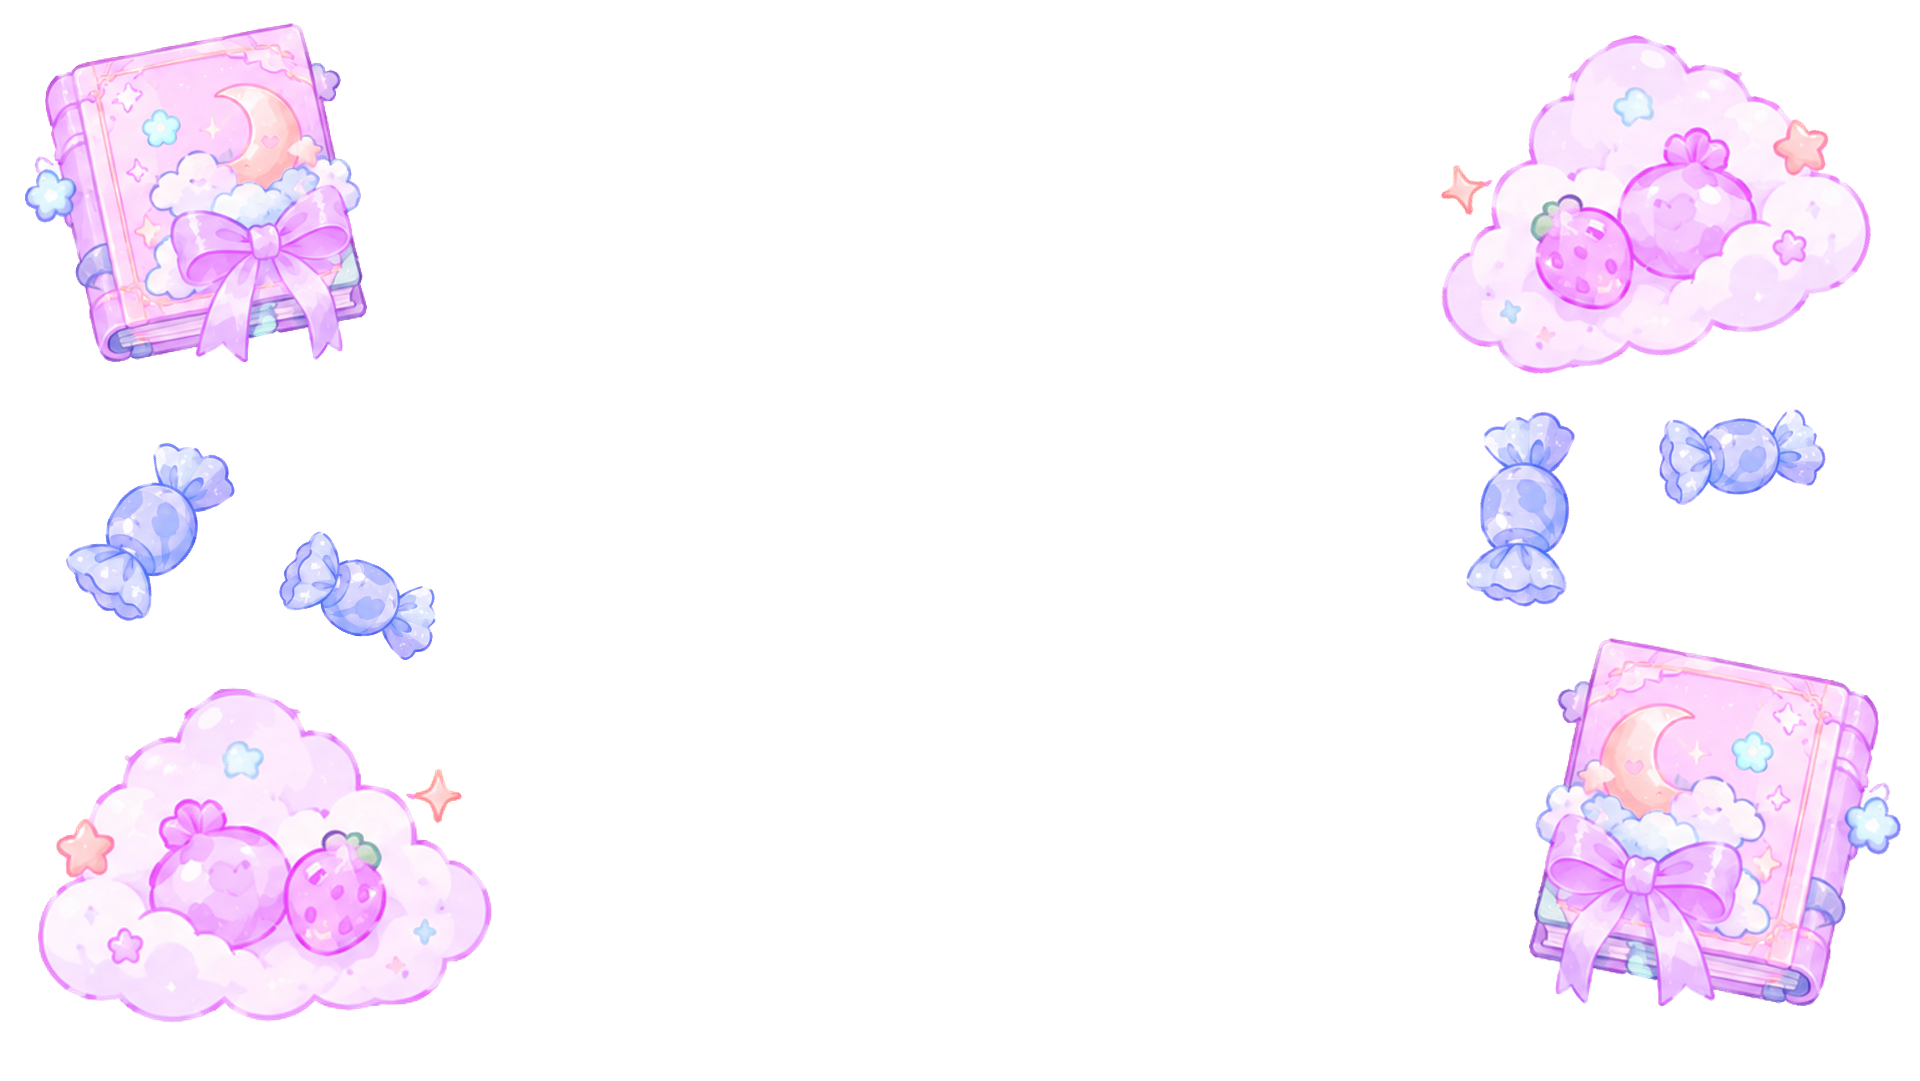
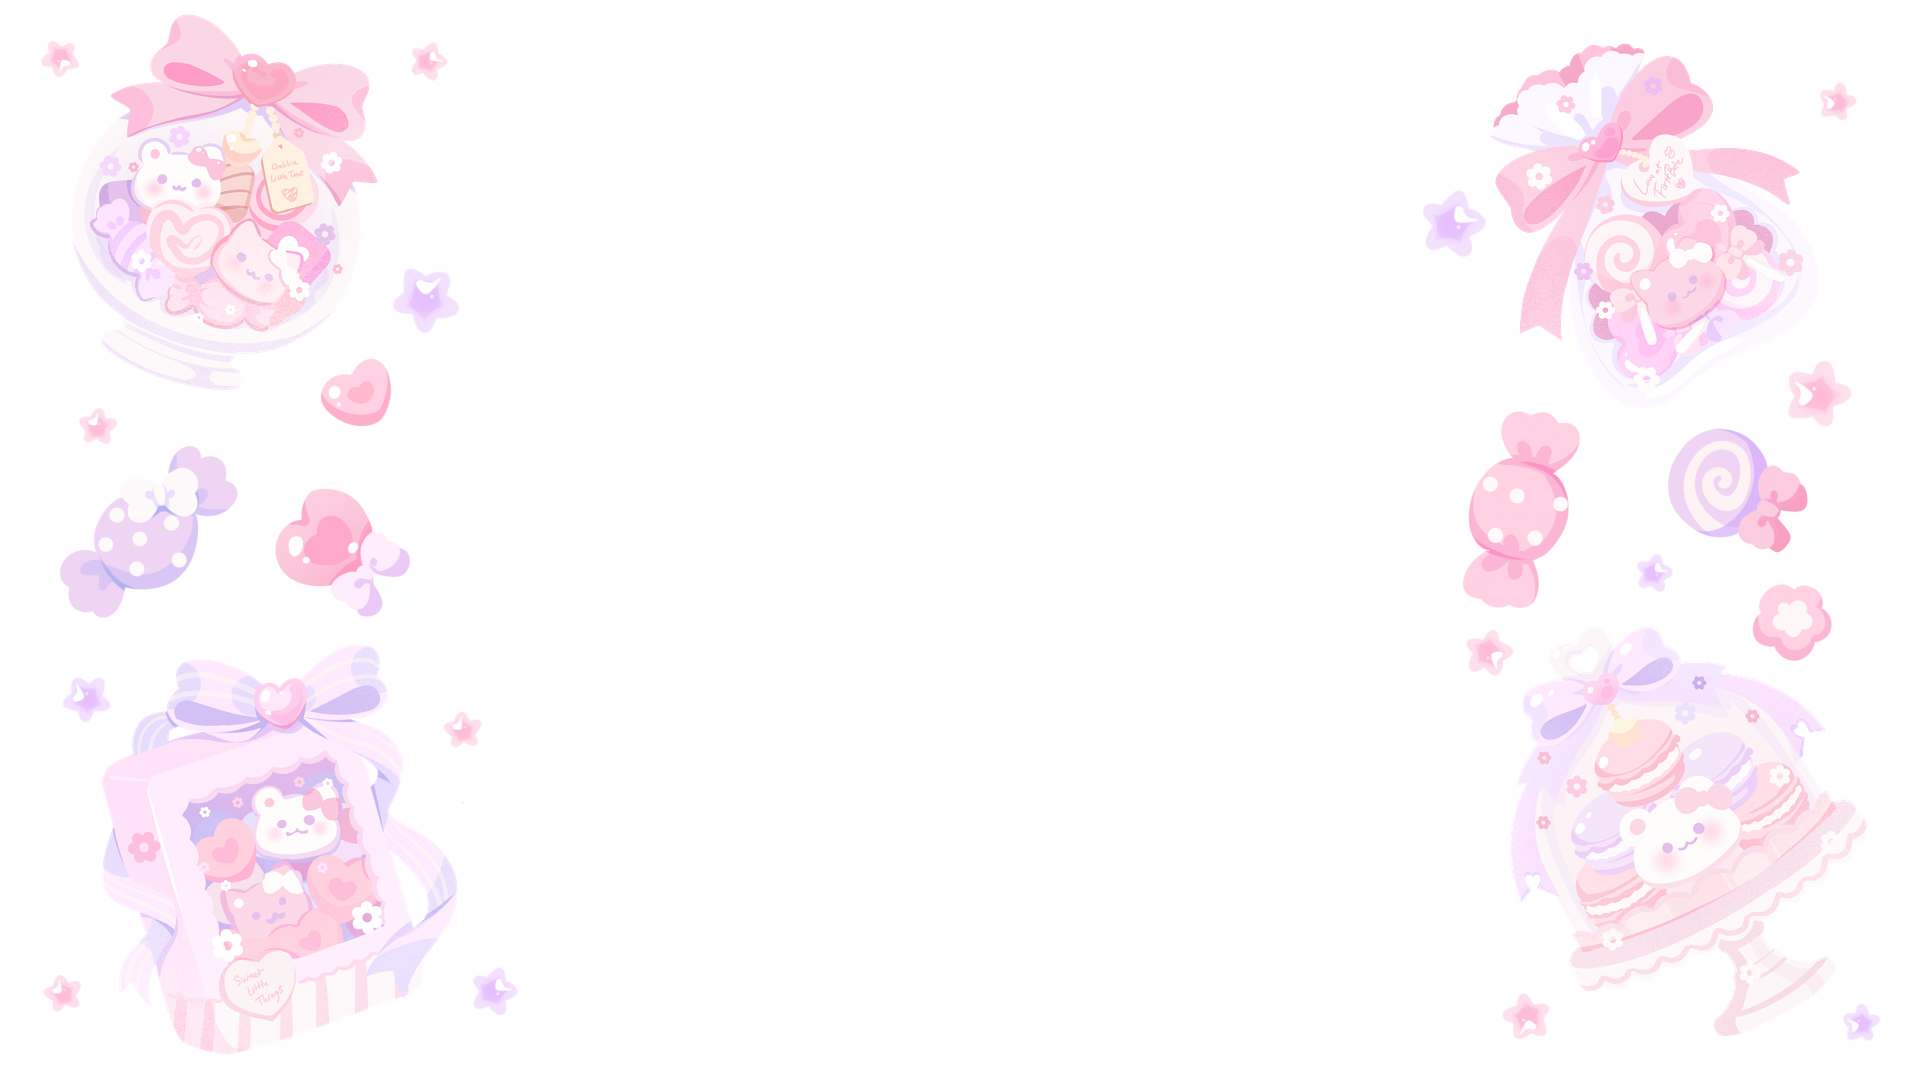
refactor: use single persistent site decoration artwork

diff --git a/src/site-decor.js b/src/site-decor.js
@@ -1,21 +1,19 @@
 /**
  * Public-site decorative background artwork.
  *
- * One fixed, non-interactive layer that crossfades three local `deco-bg` PNGs
- * as the visitor scrolls (top -> ~32% -> ~66% -> bottom) and floats them
- * gently, like lightweight stationery above the site. This module owns only
- * browser wiring (styles, DOM layers, scroll progress, rAF); it never touches
+ * One fixed, non-interactive layer showing a single local artwork
+ * (`assets/decorations/deco-bg (1).png`) persistently from the top to the
+ * bottom of the public site. The artwork stays the same while scrolling:
+ * no image switching, no crossfade, no fade thresholds. The outer
+ * `.crabbie-deco-item` owns the subtle desktop scroll/parallax transform;
+ * the inner `.crabbie-deco-float` owns the floating CSS animation, so the
+ * two transforms can never overwrite each other. This module owns only
+ * browser wiring (styles, DOM layer, scroll parallax, rAF); it never touches
  * layout, CMS data or admin mode.
  *
- * Loading policy (progressive, no eager fan-out): only state 1 is requested
- * on cold boot. States 2/3 are requested once scroll progress comes within
- * PREFETCH_MARGIN of the range where they start fading in, so a cold initial
- * route never downloads unneeded states (mobile included). The duplicate
- * eager `preload()` of all three URLs was removed. Opacity is gated on
- * decode readiness, so a crossfade never targets a layer that is not ready:
- * missing shares collapse onto the ready layers (never a blank frame), and a
- * failed decode keeps the last valid layer instead of popping (a corrupt
- * asset is retried at most twice, never re-requested on every scroll frame).
+ * Loading policy: the single image is requested on boot with decode
+ * readiness gating — opacity becomes 1 only once decoded, and a failed
+ * decode (retried at most twice) keeps the layer mounted without popping.
  *
  * Stacking: the layer uses `z-index:-2` (the same slot as `body::before`, but
  * later in tree order so it paints above the background) which keeps every
@@ -23,25 +21,9 @@
  * above the artwork and fully clickable. `pointer-events:none` and
  * `overflow:hidden` guarantee no interaction and no horizontal scrolling.
  */
-const DECO_SRC = [
-  '/assets/decorations/deco-bg (1).png',
-  '/assets/decorations/deco-bg (2).png',
-  '/assets/decorations/deco-bg (3).png'
-];
+const DECO_SRC = '/assets/decorations/deco-bg (1).png';
 const STYLE_ID = 'crabbieDecoStyles';
 const LAYER_ID = 'crabbieDecoLayer';
-
-/* Scroll thresholds (fraction of the scrollable range) and the crossfade
-   half-width around each one. Windows never overlap, so the three opacities
-   always sum to 1 and there is never a blank frame. */
-const THRESHOLD_ONE = 0.32;
-const THRESHOLD_TWO = 0.66;
-const FADE_HALF = 0.09;
-/* States 2/3 start fading in at THRESHOLD - FADE_HALF (0.23 / 0.57).
-   Request each one PREFETCH_MARGIN of progress earlier (i.e. from 0.08 /
-   0.42) so it is decoded before its first blended frame under normal
-   scroll speeds, while a cold boot at the top requests nothing extra. */
-const PREFETCH_MARGIN = 0.15;
 
 const reduceMotion = window.matchMedia('(prefers-reduced-motion: reduce)');
 const isReduced = () => reduceMotion.matches;
@@ -64,6 +46,7 @@ function injectStyles() {
 #${LAYER_ID}{position:fixed;inset:0;z-index:-2;overflow:hidden;pointer-events:none;}
 body.admin-mode #${LAYER_ID}{display:none !important;}
 .crabbie-deco-item{position:absolute;inset:-10%;opacity:0;will-change:opacity,transform;}
+.crabbie-deco-item[data-ready="true"]{opacity:1;}
 .crabbie-deco-float{position:absolute;inset:0;will-change:transform;
   animation:crabbieDecoFloat var(--deco-dur,8.5s) var(--deco-delay,0s) ease-in-out infinite alternate;}
 .crabbie-deco-item img{display:block;width:100%;height:100%;object-fit:cover;object-position:center;
@@ -92,39 +75,41 @@ body.admin-mode #${LAYER_ID}{display:none !important;}
   document.head.appendChild(style);
 }
 
-const deco = { layer: null, items: [], imgs: [], ready: [false, false, false], loading: [false, false, false], tries: [0, 0, 0], lastOp: null, max: 1, rafId: 0, observer: null };
+const deco = { layer: null, item: null, img: null, ready: false, loading: false, tries: 0, max: 1, rafId: 0, observer: null };
 /* A corrupt asset must not be re-requested on every scroll frame: after
-   MAX_DECO_ATTEMPTS failed attempts the state stays unready and the opacity
-   gate keeps the last valid layer indefinitely. */
+   MAX_DECO_ATTEMPTS failed attempts the layer stays mounted without the
+   artwork instead of retrying forever. */
 const MAX_DECO_ATTEMPTS = 2;
 
-function markReady(i, ok) {
-  deco.ready[i] = ok;
-  deco.loading[i] = false;
-  const entry = deco.items[i];
-  if (entry) {
-    if (ok) entry.el.dataset.ready = 'true';
-    else delete entry.el.dataset.ready;
+function markReady(ok) {
+  deco.ready = ok;
+  deco.loading = false;
+  if (deco.item) {
+    if (ok) {
+      deco.item.dataset.ready = 'true';
+      deco.item.style.opacity = '1';
+    } else {
+      delete deco.item.dataset.ready;
+    }
   }
   scheduleUpdate();
 }
 
-/* Request state `i` at most once per attempt; resolve readiness via decode
-   (with a load/error fallback). A failure leaves ready[i] false so the
-   opacity gate keeps the last valid layer instead of crossfading into a
-   broken image. */
-function ensureLoaded(i) {
-  if (deco.ready[i] || deco.loading[i] || deco.tries[i] >= MAX_DECO_ATTEMPTS) return;
-  const img = deco.imgs[i];
+/* Request the single artwork at most once per attempt; resolve readiness via
+   decode (with a load/error fallback). A failure leaves ready false so the
+   layer simply stays hidden instead of showing a broken image. */
+function ensureLoaded() {
+  if (deco.ready || deco.loading || deco.tries >= MAX_DECO_ATTEMPTS) return;
+  const img = deco.img;
   if (!img) return;
   if (img.getAttribute('src')) {
-    if (img.complete && img.naturalWidth > 0) { markReady(i, true); return; }
+    if (img.complete && img.naturalWidth > 0) { markReady(true); return; }
   } else {
-    img.src = DECO_SRC[i];
+    img.src = DECO_SRC;
   }
-  deco.tries[i] += 1;
-  deco.loading[i] = true;
-  const done = (ok) => markReady(i, ok);
+  deco.tries += 1;
+  deco.loading = true;
+  const done = (ok) => markReady(ok);
   if (typeof img.decode === 'function') {
     img.decode().then(() => done(img.naturalWidth > 0), () => {
       /* decode() can reject while the resource still loads (or for a
@@ -136,63 +121,39 @@ function ensureLoaded(i) {
   img.addEventListener('error', () => done(false), { once: true });
 }
 
-/* Prefetch states 2/3 ahead of the scroll range where they are needed.
-   A deep jump (fast scroll, restored position, short page) requests both at
-   once from the same frame — no blank crossfade while they decode. */
-function maybeLoadFor(progress) {
-  ensureLoaded(0);
-  if (progress > THRESHOLD_ONE - FADE_HALF - PREFETCH_MARGIN) ensureLoaded(1);
-  if (progress > THRESHOLD_TWO - FADE_HALF - PREFETCH_MARGIN) ensureLoaded(2);
-}
-
 function buildLayer() {
   injectStyles();
   if (deco.layer && deco.layer.isConnected) return deco.layer;
   const layer = document.createElement('div');
   layer.id = LAYER_ID;
   layer.setAttribute('aria-hidden', 'true');
-  const durations = ['7.6s', '8.8s', '9.6s'];
-  const delays = ['0s', '.6s', '1.2s'];
-  const drifts = ['6px', '-5px', '7px'];
-  const depths = [26, -22, 30];
-  DECO_SRC.forEach((src, i) => {
-    const item = document.createElement('div');
-    item.className = 'crabbie-deco-item';
-    item.dataset.deco = String(i + 1);
-    const float = document.createElement('div');
-    float.className = 'crabbie-deco-float';
-    float.style.setProperty('--deco-dur', durations[i]);
-    float.style.setProperty('--deco-delay', delays[i]);
-    float.style.setProperty('--deco-drift', drifts[i]);
-    const img = document.createElement('img');
-    /* Progressive policy: only state 1 gets a src on boot. States 2/3 are
-       assigned their src by ensureLoaded() shortly before first use. */
-    if (i === 0) {
-      img.src = src;
-      if ('fetchPriority' in img) img.fetchPriority = 'high';
-    }
-    img.alt = '';
-    img.decoding = 'async';
-    img.draggable = false;
-    float.appendChild(img);
-    item.appendChild(float);
-    layer.appendChild(item);
-    deco.items.push({ el: item, depth: depths[i] });
-    deco.imgs.push(img);
-  });
+  const item = document.createElement('div');
+  item.className = 'crabbie-deco-item';
+  item.dataset.deco = '1';
+  const float = document.createElement('div');
+  float.className = 'crabbie-deco-float';
+  float.style.setProperty('--deco-dur', '8.5s');
+  float.style.setProperty('--deco-delay', '0s');
+  float.style.setProperty('--deco-drift', '6px');
+  const img = document.createElement('img');
+  img.src = DECO_SRC;
+  if ('fetchPriority' in img) img.fetchPriority = 'high';
+  img.alt = '';
+  img.decoding = 'async';
+  img.draggable = false;
+  float.appendChild(img);
+  item.appendChild(float);
+  layer.appendChild(item);
   document.body.appendChild(layer);
   deco.layer = layer;
-  ensureLoaded(0);
+  deco.item = item;
+  deco.img = img;
+  ensureLoaded();
   return layer;
 }
 
 function clamp01(value) {
   return value < 0 ? 0 : (value > 1 ? 1 : value);
-}
-
-function smoothstep(x) {
-  const t = clamp01(x);
-  return t * t * (3 - 2 * t);
 }
 
 /* Cache the scrollable range instead of reading scrollHeight on every frame.
@@ -203,44 +164,18 @@ function refreshMax() {
 }
 
 function applyProgress() {
-  if (!deco.layer) return;
+  if (!deco.layer || !deco.item) return;
   const progress = clamp01(window.scrollY / deco.max);
-  maybeLoadFor(progress);
-  const fadeOne = smoothstep((progress - (THRESHOLD_ONE - FADE_HALF)) / (FADE_HALF * 2));
-  const fadeTwo = smoothstep((progress - (THRESHOLD_TWO - FADE_HALF)) / (FADE_HALF * 2));
-  let opacities = [1 - fadeOne, fadeOne * (1 - fadeTwo), fadeTwo];
-  /* Never crossfade into a layer that has not decoded yet: collapse the
-     missing share onto the ready layers (renormalised, still summing to 1)
-     so fast/deep scroll holds a valid layer instead of blanking. A failed
-     decode keeps its share at zero permanently. */
-  const gated = opacities.map((value, i) => (deco.ready[i] ? value : 0));
-  const total = gated[0] + gated[1] + gated[2];
-  if (total > 0) {
-    opacities = gated.map((value) => value / total);
-    deco.lastOp = opacities;
-  } else if (deco.lastOp) {
-    /* A later state failed after earlier frames already showed a valid
-       blend (e.g. corrupt state 3 at the bottom): hold that blend instead
-       of snapping elsewhere, so there is never a blank or popping frame. */
-    opacities = deco.lastOp;
+  const reduced = isReduced();
+  /* Parallax rides the outer wrapper; the CSS float animation owns the inner
+    wrapper, so the two transforms can never overwrite each other. Opacity
+    stays 1 once the single artwork is ready — scrolling never hides it. */
+  if (reduced || !hasFinePointer()) {
+    deco.item.style.transform = 'none';
   } else {
-    /* Cold error path (state 1 itself failed): keep the layer mounted with
-       the nominal blend so layout/style stay intact, showing nothing rather
-       than a half-applied state. */
-    opacities = [1, 0, 0];
+    const offset = (progress - 0.5) * 26;
+    deco.item.style.transform = 'translate3d(0,' + offset.toFixed(1) + 'px,0)';
   }
-    const reduced = isReduced();
-    deco.items.forEach((item, i) => {
-      item.el.style.opacity = opacities[i].toFixed(3);
-      /* Parallax rides the outer wrapper; the CSS float animation owns the inner
-        wrapper, so the two transforms can never overwrite each other. */
-      if (reduced || !hasFinePointer()) {
-        item.el.style.transform = 'none';
-      } else {
-        const offset = (progress - 0.5) * item.depth;
-        item.el.style.transform = 'translate3d(0,' + offset.toFixed(1) + 'px,0)';
-      }
-    });
 }
 
 function scheduleUpdate() {

diff --git a/ux-rules.md b/ux-rules.md
@@ -115,12 +115,12 @@ per-element editor.
   The public `body` stays transparent so the fixed background and candy layers
   remain visible; `html` carries the overscroll fallback colour (`--cms-bg-color`).
 - The decorative background artwork (`src/site-decor.js`) is one fixed,
-  `pointer-events:none`, `overflow:hidden` layer that crossfades the three local
-  `/assets/decorations/deco-bg (N).png` images across the scroll range
-  (top → ~32% → ~66% → bottom); desktop adds scroll parallax and a subtle
-  floating animation, while coarse pointers (phones/tablets) keep the art
-  visible and fixed with no parallax or float. Admin mode hides it and
-  `prefers-reduced-motion` stops all motion. It must never add
+  `pointer-events:none`, `overflow:hidden` layer showing the single local
+  `/assets/decorations/deco-bg (1).png` persistently from page top to page
+  bottom (no switching, no crossfade); desktop adds subtle scroll parallax
+  and a gentle floating animation, while coarse pointers (phones/tablets)
+  keep the art visible and fixed with no parallax or float. Admin mode hides
+  it and `prefers-reduced-motion` stops all motion. It must never add
   horizontal overflow or cover interactive content.
 - Saved palettes store the whole colour group in `theme.palettes`; Save uses
   only valid values, Apply never injects invalid colors, Duplicate never
@@ -342,7 +342,7 @@ Important current behavior:
 - the public lightbox uses ONE remaining-space media stage on every viewport (desktop, tablet, phone portrait and phone landscape): a flex column whose flexible `.public-lightbox-stage` owns the space between the reserved close band, the visible caption/collaborator credits and the bottom zoom toolbar. The contained artwork AND the prev/next controls are centered inside that same stage (never the viewport), so ornamentation and `env(safe-area-inset-*)` bands can never push the resting artwork under a control. Hidden metadata collapses to zero space; when metadata cannot fit the dialog scrolls as one deliberate region. The stage is pointer-transparent so a backdrop click still closes the viewer, while the artwork/controls opt back in so interaction never dismisses by accident. Close/toolbar padding and position grow with safe-area insets on notch phones; close and zoom buttons keep ~44px touch targets on every viewport (base sizing, not just narrow portrait); short landscape viewports (height ≤500px) tighten both the reserved close/toolbar bands and the stage minimum so the image stage stays usable;
 - the public lightbox zooms with a bounded pan, never a bare centered scale: one-finger touch drag and mouse drag pan the artwork while zoomed (at 1x the dialog keeps its normal scroll), the pan clamps so an image edge lands exactly on the stage edge, zoom stays within 1–4x, and Reset/reopen always re-center deterministically; resize/orientation re-clamps without changing the zoom level, and panning is transform-only so the root document never moves. In multi-image collections Left/Right step prev/next (with a position indicator); with a single zoomed image the arrow keys pan instead;
 - lightbox captions wrap unbroken tokens (`overflow-wrap:anywhere`, `min-width:0`) so long URLs stay inside the caption pill and the dialog; collaborator names already wrap, and credit avatars keep their own 30px sizing outside the artwork zoom/pan rules;
-- public motion is restrained: one short hover spring on `.work-more` (no perpetual loop), a single gentle hero float, a slow drift on Home cloud-tag labels only, and sparkle only on primary CTAs; `.is-jelly` is a short press/release squash applied strictly to interactive controls (buttons, chips, tabs, pills); navigation cards (`.work[data-project]`, `.item[data-asset]`, `.work-more`, and descendants) are excluded from jelly so navigation begins immediately without animation delays. `[data-goto]` navigation is never delayed by animation. The decorative artwork (`src/site-decor.js`) crossfades on desktop and phones, but scroll parallax and the continuous float drift are desktop/fine-pointer only — on coarse pointers the art stays visible and viewport-fixed with no transform, so the background never feels like it slides sideways while scrolling; `prefers-reduced-motion` still stops everything;
+- public motion is restrained: one short hover spring on `.work-more` (no perpetual loop), a single gentle hero float, a slow drift on Home cloud-tag labels only, and sparkle only on primary CTAs; `.is-jelly` is a short press/release squash applied strictly to interactive controls (buttons, chips, tabs, pills); navigation cards (`.work[data-project]`, `.item[data-asset]`, `.work-more`, and descendants) are excluded from jelly so navigation begins immediately without animation delays. `[data-goto]` navigation is never delayed by animation. The single decorative artwork (`src/site-decor.js`) stays visible top to bottom, but scroll parallax and the continuous float drift are desktop/fine-pointer only — on coarse pointers the art stays visible and viewport-fixed with no transform, so the background never feels like it slides sideways while scrolling; `prefers-reduced-motion` still stops everything;
 - portfolio `.work` cards keep the shared hover lift: the `.pf-grid` entrance animation must not forward-fill `transform` after it settles, and the featured resting ring (`is-cms-featured`) is scoped to `:not(:hover)` so featured and normal cards share the same lift/shadow hover feedback;
 - portfolio card metadata is a bounded preview: the absolute `.meta` is capped to its card (`max-height: 100%`, overflow hidden) and `.work-title` clamps to three lines, so a pathological CMS title can never escape into the card above — normal one/two-line titles render exactly as before, and the full title stays in the DOM (screen readers, selection) and on the project detail page behind See more;
 - portfolio image-only cards (`is-image-card`) use ONE coherent in-flow model at or below the desktop masonry breakpoint (1180px): the card is a normal full-width grid row with no containment (`contain:none`, `overflow` stays visible so the protruding category cloud is never clipped and the outer card contains its content through normal layout), the thumb is `position: relative` with `height: auto`, the whole artwork keeps its natural ratio (`object-fit: contain`), and the meta sits below the art (`position: static`) instead of over it. There is no separate `<=720px` crop/`contain:paint` patch — that conflicting patch was removed. A 180px minimum keeps the labeled `PROJECT IMAGE` fallback sized only while artwork is absent, loading or failed; a successfully painted source sets `is-art-ready` and releases the minimum, so wide artwork is never padded out and no empty placeholder strip remains. Lazy, cached-complete and broken sources are all handled (inline load/error plus a reconcile in `syncPortfolioCardMode`; broken artwork clears readiness and removes itself, keeping a sized labeled box). Only the artwork clips, at the thumb boundary. Above 1180px desktop keeps the masonry spans, cover fill and overlay meta exactly. The artwork renders through its own `pf-full-art` markup (never the shared `publicImage()` inline cover styles, which normal thumbnails keep), and image cards keep their viewer (not project-detail) navigation;

diff --git a/performance.md b/performance.md
@@ -51,12 +51,11 @@ Full-resolution originals load on demand in the shared viewer only — the grid
 never preloads every original of a large gallery. No autoplay, no mandatory
 swipe navigation.
 
-Decorative background artwork (`src/site-decor.js`, three local `deco-bg`
-PNGs) loads progressively: a cold top-of-page load requests only state 1,
-states 2/3 are prefetched from 0.08/0.42 scroll progress (ahead of their
-0.23/0.57 fade-in starts), and opacity is gated on decode readiness so fast
-scroll holds a valid layer and a failed decode (retried at most twice) never
-blanks or pops. The former duplicate eager preload of all three URLs is gone.
+Decorative background artwork (`src/site-decor.js`, one local `deco-bg (1).png`)
+loads once on boot with decode-readiness gating (opacity becomes 1 only after
+decode; a failed decode, retried at most twice, never shows a broken image).
+There is no crossfade, no scroll prefetch and no request for any other deco
+artwork.
 
 ## Upload pipeline
 
